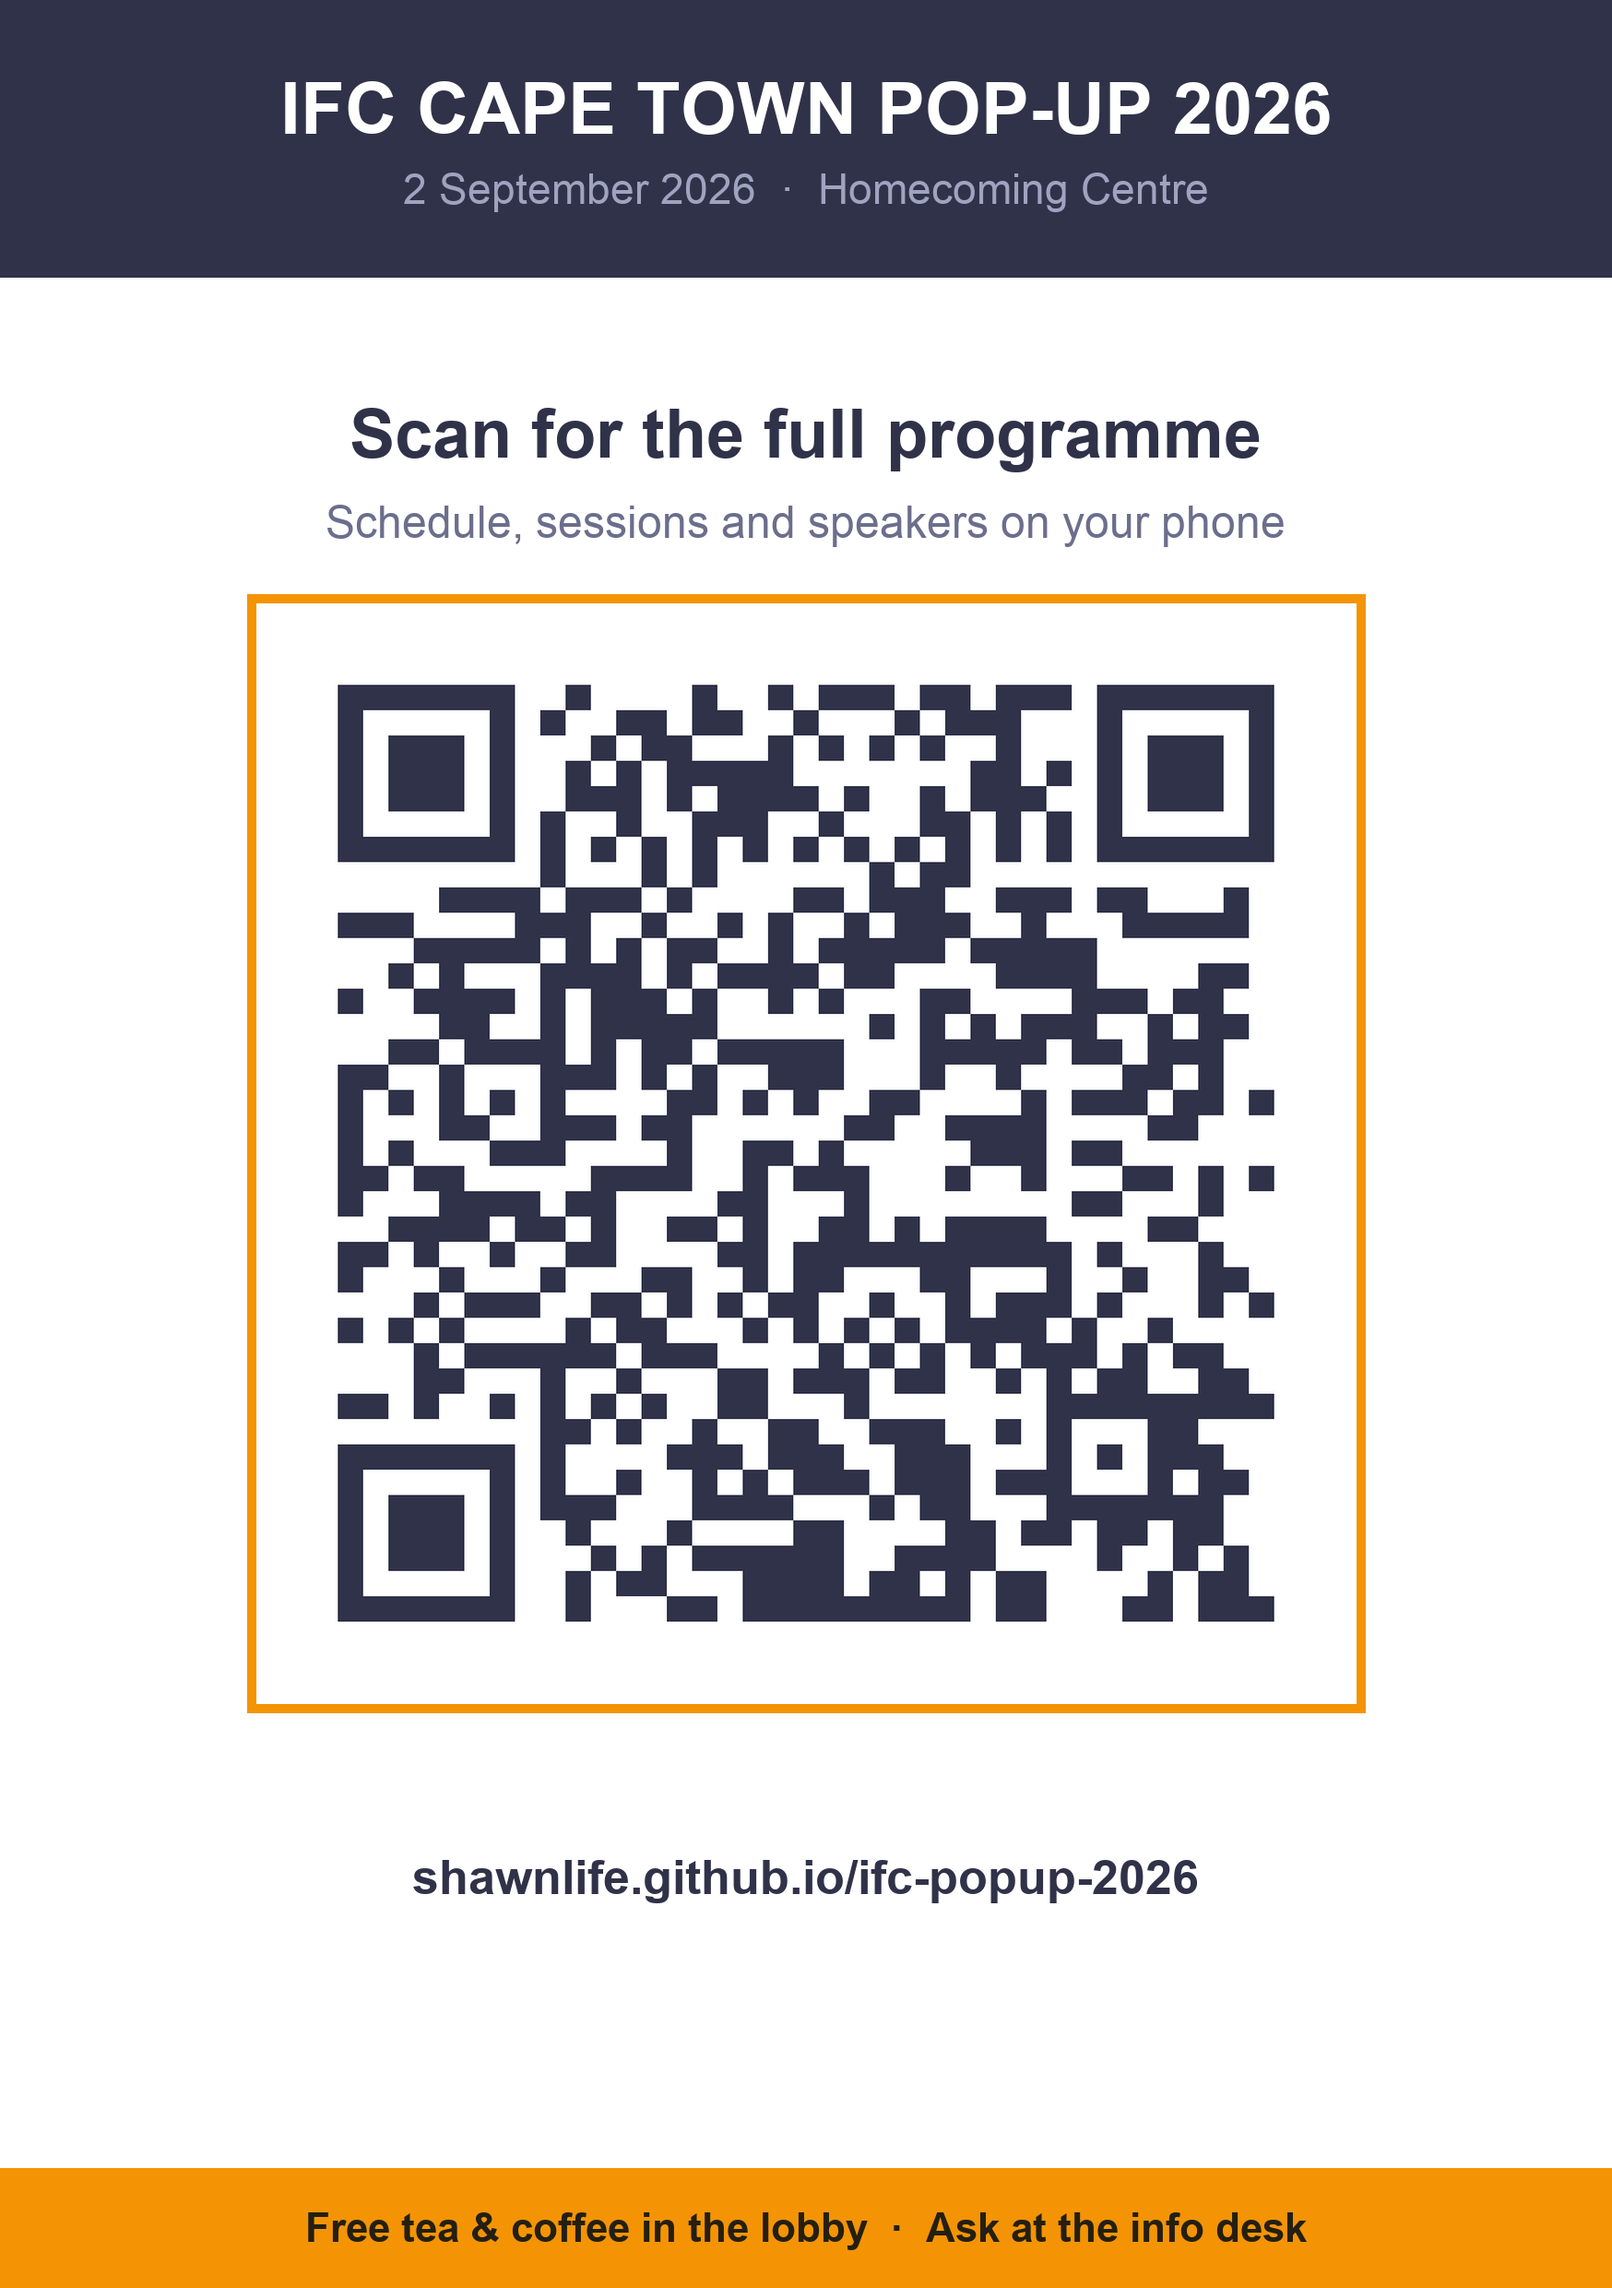
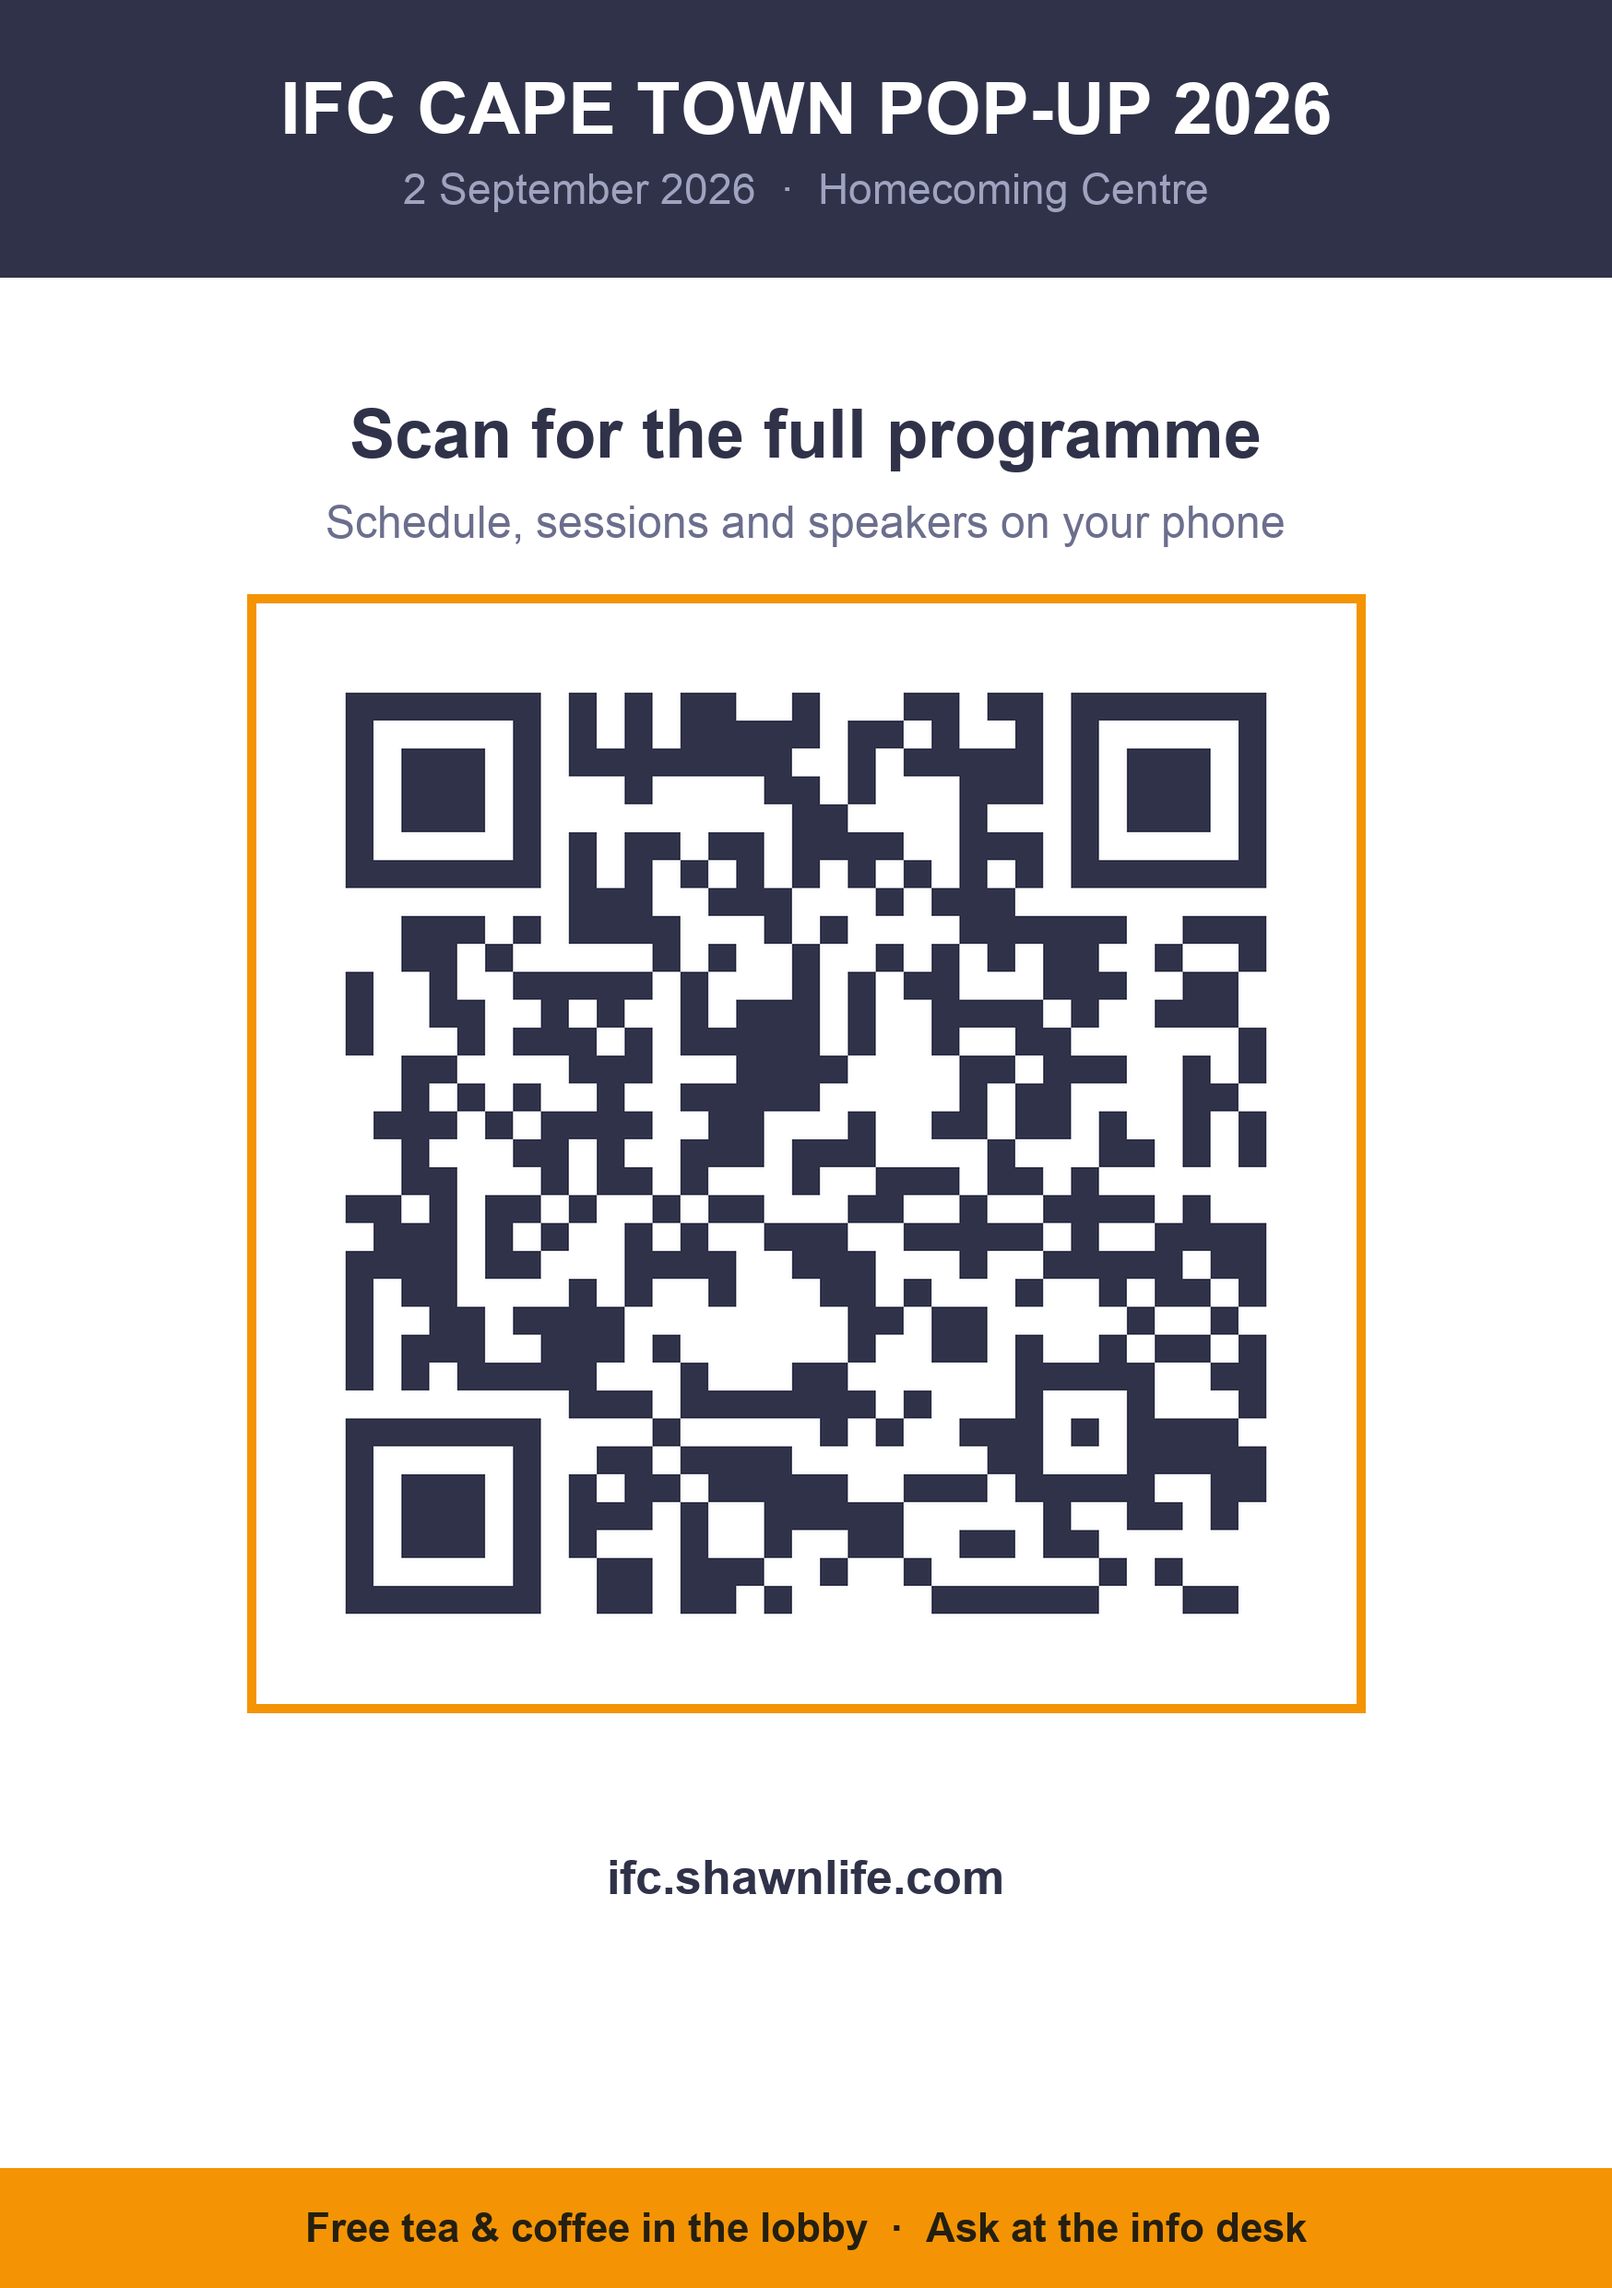
Point the site at ifc.shawnlife.com and reprint-ready QR
- SITE_URL, og:url and og:image now use the custom domain, so link
  previews in WhatsApp and LinkedIn resolve to the real address
- QR code regenerated against https://ifc.shawnlife.com/ and decoded back
  to confirm both files scan
- HTTPS enforcement turned on (certificate provisioned and approved)
- README documents the DNS record and warns not to delete the CNAME file

Changed region(s): [[0.1854, 0.2794, 0.8032, 0.7141], [0.2471, 0.8073, 0.7414, 0.8383]]

diff --git a/index.html b/index.html
@@ -9,8 +9,8 @@
 <meta property="og:type" content="website">
 <meta property="og:title" content="IFC Cape Town Pop-Up 2026">
 <meta property="og:description" content="IFC Cape Town Pop-Up 2026 — 2 September 2026, Homecoming Centre, District Six, Cape Town. Full programme, sessions and speakers.">
-<meta property="og:url" content="https://shawnlife.github.io/ifc-popup-2026/">
-<meta property="og:image" content="https://shawnlife.github.io/ifc-popup-2026/assets/images/logo.png">
+<meta property="og:url" content="https://ifc.shawnlife.com/">
+<meta property="og:image" content="https://ifc.shawnlife.com/assets/images/logo.png">
 <meta name="twitter:card" content="summary">
 <link rel="icon" href="assets/images/logo.png">
 <link rel="apple-touch-icon" href="assets/images/logo.png">

diff --git a/build/build_site.py b/build/build_site.py
@@ -21,7 +21,7 @@ import site_data as D
 
 ROOT = Path(__file__).parent.parent      # project root, not build/
 OUT = ROOT / "index.html"
-SITE_URL = "https://shawnlife.github.io/ifc-popup-2026/"
+SITE_URL = "https://ifc.shawnlife.com/"
 
 # Graphik is self-hosted from fonts/ (see build_fonts.py). Weight -> woff2 file.
 # Self-hosting means the site makes zero third-party requests: no Google Fonts,

diff --git a/build/make_qr.py b/build/make_qr.py
@@ -17,7 +17,7 @@ from pathlib import Path
 import segno
 from PIL import Image, ImageDraw, ImageFont
 
-URL = sys.argv[1] if len(sys.argv) > 1 else "https://shawnlife.github.io/ifc-popup-2026/"
+URL = sys.argv[1] if len(sys.argv) > 1 else "https://ifc.shawnlife.com/"
 OUT = Path(__file__).parent.parent / "qr"
 NAVY, ORANGE, MUTED = "#303249", "#F49404", "#A0A3C0"
 

diff --git a/README.md b/README.md
@@ -4,7 +4,7 @@ Mobile-first schedule site for the IFC Cape Town Pop-Up, **2 September 2026**,
 Homecoming Centre, District Six, Cape Town. Attendees scan a QR code on the day
 and read the programme on their phones.
 
-**Live:** https://shawnlife.github.io/ifc-popup-2026/
+**Live:** https://ifc.shawnlife.com/
 
 ---
 
@@ -115,14 +115,22 @@ URL**, paste the Apps Script `/exec` URL. Refreshes every 60 seconds.
 `qr/ifc-popup-2026-qr-print-A5.png` is print-ready at A5, 300dpi. Both files were
 decoded back to the live URL to confirm they scan.
 
-**If the site moves to a custom domain, regenerate and reprint:**
+It points at **https://ifc.shawnlife.com/**. If the domain ever changes, the QR
+must be regenerated and reprinted — the URL is baked into the code:
 
 ```bash
-python3 build/make_qr.py https://ifc.shawnlife.com/
+python3 build/make_qr.py https://new-domain/
 ```
+
+## Custom domain
+
+Live at **ifc.shawnlife.com**, with HTTPS enforced.
+
+- Squarespace DNS: `CNAME` on host `ifc` -> `shawnlife.github.io`
+- `CNAME` file in this repo holds the domain. **Do not delete it** — Pages
+  reads it, and removing it drops the domain
+- `shawnlife.github.io/ifc-popup-2026/` now 301-redirects here
 
 ### Still outstanding
 
 - A higher-resolution Fundraising Beyond Borders logo (current is 200×50px)
-- Custom domain `ifc.shawnlife.com` — DNS record plus a `CNAME` file, and a
-  reprinted QR code
